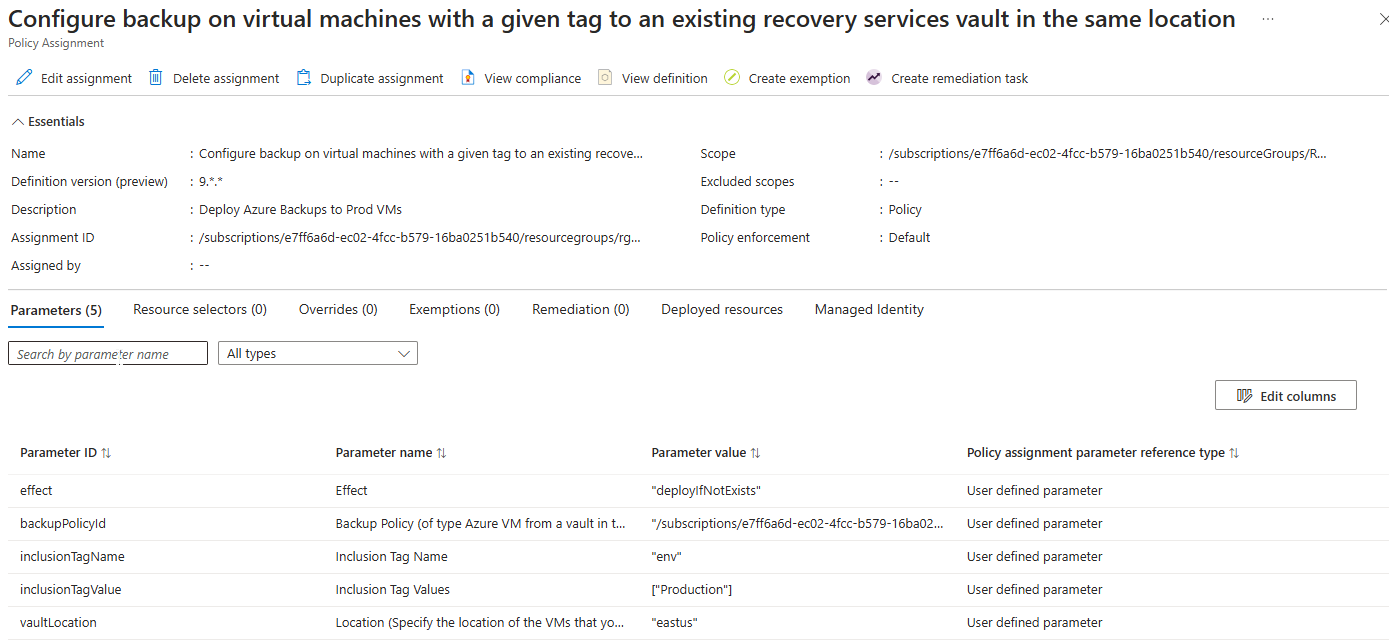
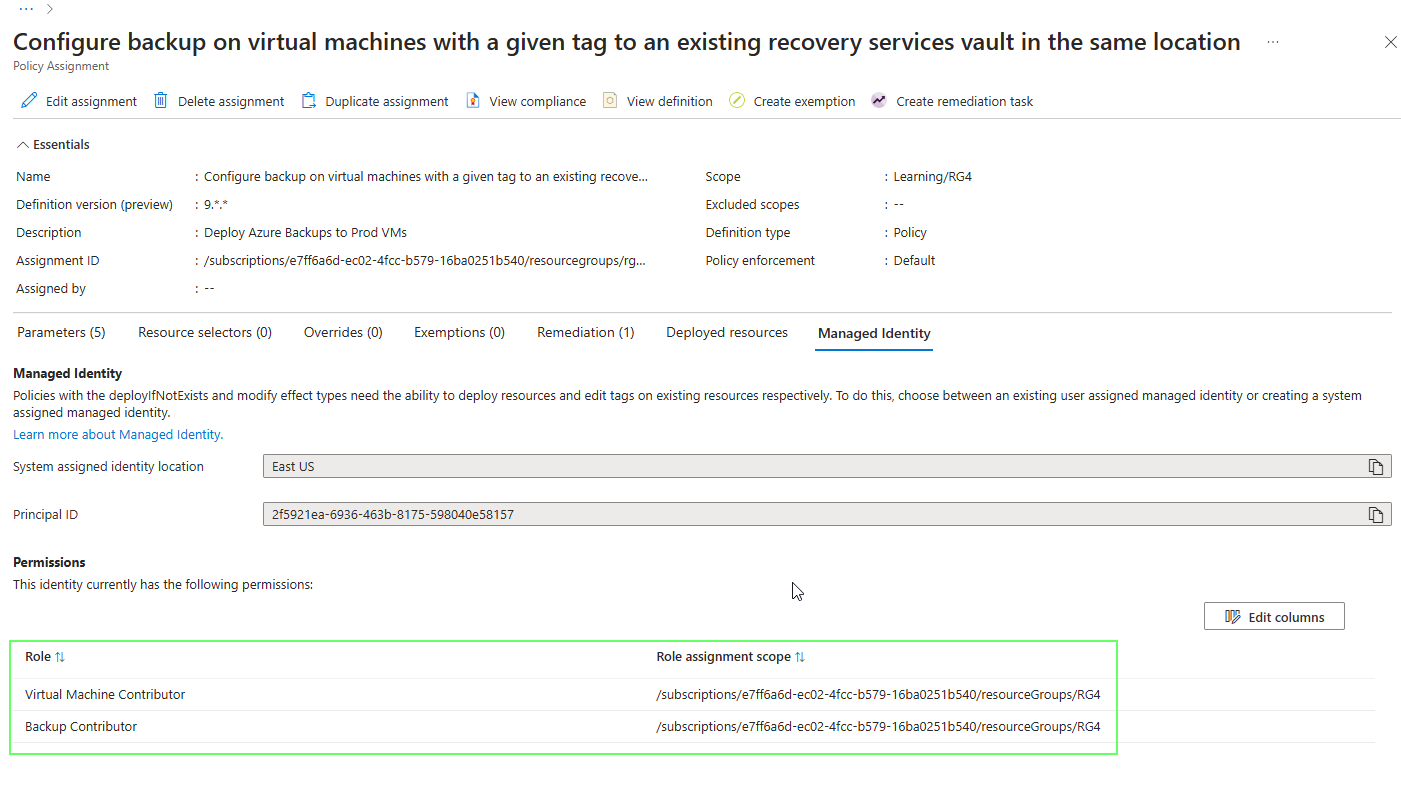
updates to image sku

diff --git a/infra/part4/Part4.md b/infra/part4/Part4.md
@@ -122,7 +122,7 @@ az vm list --resource-group $rsgname --query [].name -o tsv
 ### 4.3 Review the Azure Policy
 Note there will now be an **Azure Policy** assigned on the Resource Group scope which will enforce backups on any newly created Virtual Machines. 
 
-You can also remedidate any non-compliant machines that were deployed before the polict took effect.
+You can also remedidate any non-compliant machines that were deployed before the policy took effect. The policy assignment requires a managed identity and some RBAC roles.
 
 ![POL1](../../images/newpol.png)
 
